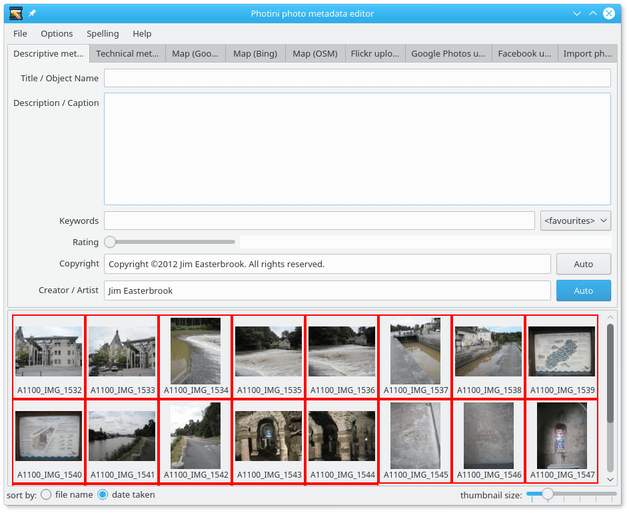
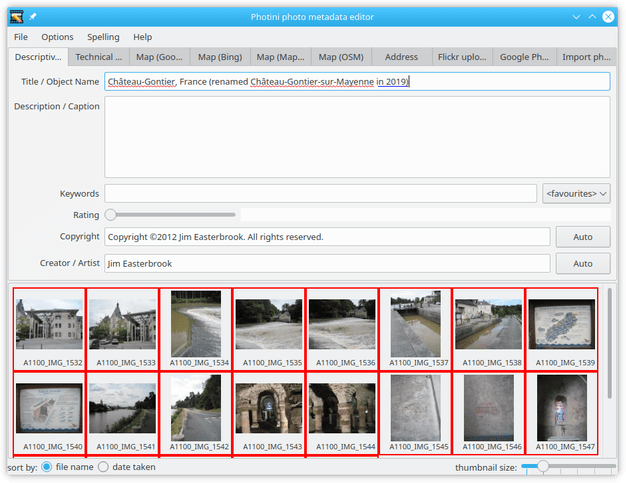
Document IPTC-IIM length limit highlighting

diff --git a/src/photini/__init__.py b/src/photini/__init__.py
@@ -1,4 +1,4 @@
 from __future__ import unicode_literals
 
 __version__ = '2021.6.0'
-build = '1707 (98cc106)'
+build = '1708 (f9a87ee)'

diff --git a/src/doc/manual/descriptive_metadata.rst b/src/doc/manual/descriptive_metadata.rst
@@ -39,6 +39,11 @@ Select all the images that should have the same title, then type the title in th
 Note that the title (and keywords) are stored in XMP and IPTC-IIM but not in Exif, so may not be visible to software that only handles Exif metadata (see :doc:`tag reference <tags>` for more detail).
 You may prefer to leave the title and keywords fields blank.
 
+The legacy IPTC-IIM standard has a maximum number of bytes for each data item.
+If your text has more bytes then the excess is shown underlined in blue.
+You can ignore this if you don't need compatibility with old software that relies on IPTC-IIM data.
+This warning can be turned off in Photini's :doc:`configuration <configuration>`.
+
 The ``Title / Object name`` field has an optional spell checker, enabled with the ``Spelling`` menu.
 The word "Château-Gontier" is not in the British English dictionary, as indicated by the red underlining.
 Right-clicking on a misspelled word shows a list of suggested alternatives, one of which can be chosen by clicking on it.
